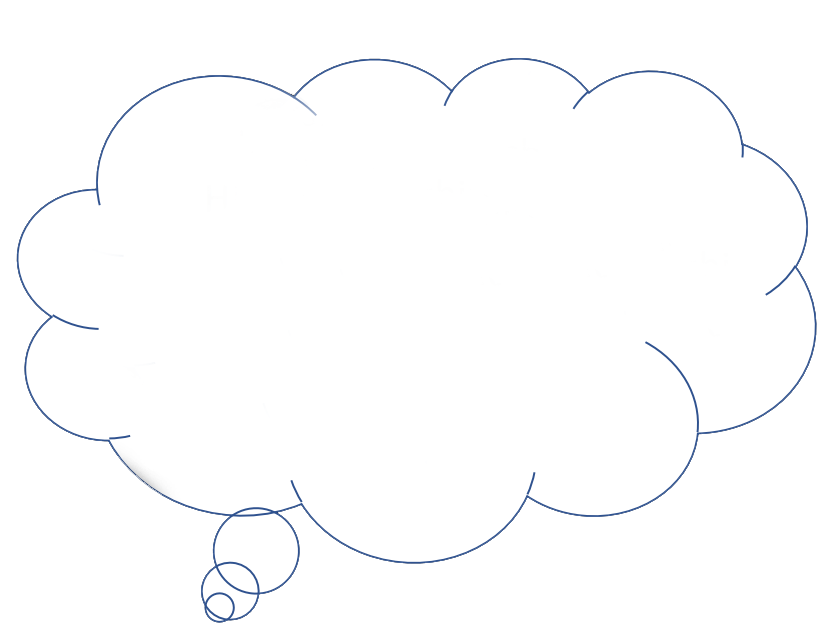
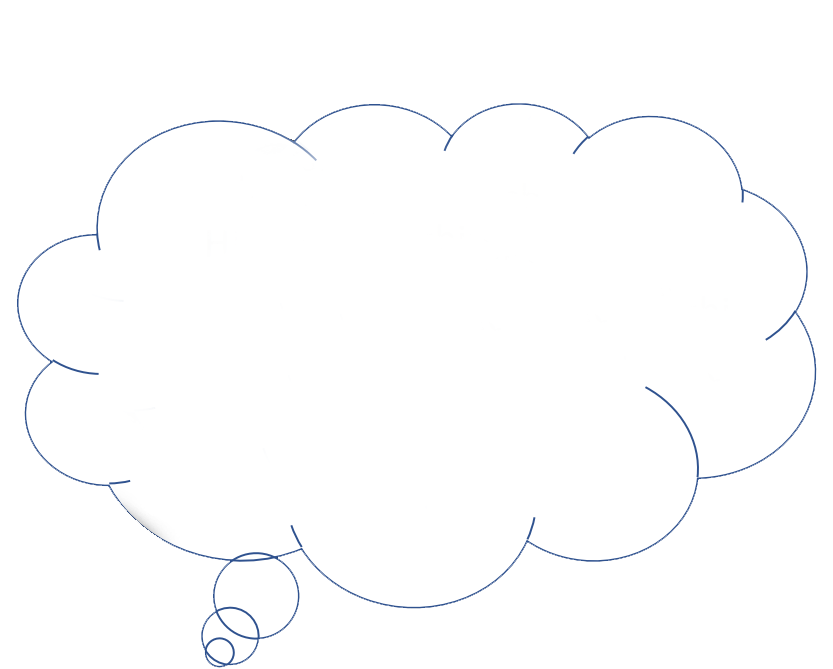
basic UI

diff --git a/src/pages/Welcome/index.js b/src/pages/Welcome/index.js
@@ -1,56 +1,33 @@
-import { Animator, ScrollContainer, ScrollPage, batch, Sticky, Fade } from "react-scroll-motion";
-import Greeting from '../Greeting';
-import Intro from '../Intro';
-import Contact from '../Contact';
-import Person from '../../components/Person';
+import { Animator, ScrollContainer, ScrollPage, batch, Sticky, Fade } from 'react-scroll-motion';
+
+import Bubble from '../../components/Bubble';
+import Contact from '../../components/Contact';
 import PageLayout from '../../layouts/PageLayout';
 import './styles.css';
 
 const welcomePages = [
   {
-    element: <Greeting />,
+    element: <Bubble thoughtContent={'Hi! Thanks for reaching out.'} />,
     imgPath: '/assets/images/man_1.png'
   },
   {
-    element: <Intro />,
+    element: <Bubble thoughtContent={`I'm currenlty on vacation until 1/15.\nPlease use the options below to direct your inquiry.`} />,
     imgPath: '/assets/images/man_1_sunglass.png'
   },
   {
-    element: <Contact />,
-    imgPath: null
+    element: <Contact />
   }
-]
+];
 
-const Welcome = () => {
-
-  return (
-    <ScrollContainer className='scroll-container'>
-      {welcomePages.map((page, id) => (
-        <ScrollPage className='scroll-page' data={id} key={id}>
-          <Animator className='scroll-animator' animation={batch(Fade(), Sticky())}>
-            <PageLayout key={id}>
-              {page.element}
-              {page.imgPath && <Person photo={page.imgPath} />}
-            </PageLayout>
-          </Animator>
-        </ScrollPage>))}
-      {/* <ScrollPage className='scroll-page' page={0}>
-        <Animator className='scroll-animator' animation={batch(Fade(), Sticky())}>
-          <Greeting />
-        </Animator>
-      </ScrollPage>
-      <ScrollPage page={1}>
-        <Animator animation={batch(Sticky(), Fade())}>
-          <Intro />
-        </Animator>
-      </ScrollPage>
-      <ScrollPage page={2}>
-        <Animator animation={batch(Fade(), Sticky())}>
-          <Contact />
-        </Animator>
-      </ScrollPage> */}
-    </ScrollContainer>
-  );
-};
+const Welcome = () => <ScrollContainer className='scroll-container'>
+  {welcomePages.map((page, id) => (
+    <ScrollPage className='scroll-page' data={id} key={id}>
+      <Animator className='scroll-animator' animation={batch(Fade(), Sticky())}>
+        <PageLayout key={id} person={page.imgPath}>
+          {page.element}
+        </PageLayout>
+      </Animator>
+    </ScrollPage>))}
+</ScrollContainer>;
 
 export default Welcome;

diff --git a/src/layouts/PageLayout/index.js b/src/layouts/PageLayout/index.js
@@ -1,18 +1,14 @@
 import React from 'react';
 
 import './styles.css';
-import CompanyLogo from '../../components/CompanyLogo';
+import CompanyLogo from '../../components/core/CompanyLogo';
+import Person from '../../components/core/Person';
 
-const PageLayout = ({ children, thoughtContent }) => {
+const PageLayout = ({ children, person }) => {
   return (
     <div className='page-container'>
       {children}
-      <div className='bubble-container'>
-        <img
-          src='/assets/images/thought_bubble.png'
-          alt='thought_bubble_image'
-        />
-      </div>
+      {person && <Person photo={person} />}
       <CompanyLogo />
     </div>)
 };

diff --git a/src/components/Bubble/index.js b/src/components/Bubble/index.js
@@ -1,0 +1,22 @@
+import React from 'react';
+
+import './styles.css';
+
+const Bubble = ({ thoughtContent }) => {
+  return (<div className='bubble-container'>
+    <img
+      src='/assets/images/thought_bubble.png'
+      alt='bubble_image'
+      width='100%'
+      height='auto'
+    />
+    <div className='buble-content'>
+      {
+        thoughtContent.split('\n')
+          .map((sentence, index) => <p key={index}>{sentence}</p>)
+      }
+    </div>
+  </div>);
+};
+
+export default Bubble;

diff --git a/src/components/Bubble/styles.css b/src/components/Bubble/styles.css
@@ -1,0 +1,20 @@
+.bubble-container {
+  padding: 2rem 6rem;
+  max-width: 40rem;
+  display: flex;
+  justify-content: center;
+  align-items: center;
+  transform: translate(-40%, -50%);
+  height: 25rem;
+}
+
+.buble-content {
+  font-size: 1.5em;
+  font-weight: 500;
+  line-height: 2;
+  z-index: 100;
+}
+
+.buble-content p {
+  margin: 1em 0;
+}

diff --git a/src/pages/index.js b/src/pages/index.js
@@ -3,5 +3,3 @@ export { default as Operations } from './Operations';
 export { default as Me } from './Me';
 export { default as Welcome } from './Welcome';
 export { default as Contact } from './Contact';
-export { default as Intro } from './Intro';
-export { default as Greeting } from './Greeting';

diff --git a/src/pages/Greeting copy 2/index.js b/src/pages/Greeting copy 2/index.js
@@ -1,7 +1,7 @@
 import React from 'react';
 
 import './styles.css';
-import CompanyLogo from '../../components/CompanyLogo';
+import CompanyLogo from '../../components/core/CompanyLogo';
 
 const Greeting = () => {
   return (<div className='main-container'>

diff --git a/src/pages/Greeting copy/index.js b/src/pages/Greeting copy/index.js
@@ -1,7 +1,7 @@
 import React from 'react';
 
 import './styles.css';
-import CompanyLogo from '../../components/CompanyLogo';
+import CompanyLogo from '../../components/core/CompanyLogo';
 
 const Greeting = () => {
   return (<div className='main-container'>

diff --git a/src/layouts/PageLayout/styles.css b/src/layouts/PageLayout/styles.css
@@ -2,6 +2,9 @@
   width: 100%!important;
   position: relative!important;
   min-height: 100vh!important;
+  display: flex;
+  justify-content: center;
+  align-items: center;
 }
 
 .bubble-container {

diff --git a/src/components/Contact/index.js b/src/components/Contact/index.js
@@ -1,0 +1,9 @@
+import React from 'react';
+
+import './styles.css';
+
+const Greeting = () => {
+  return (<div>Contact</div>)
+};
+
+export default Greeting;
